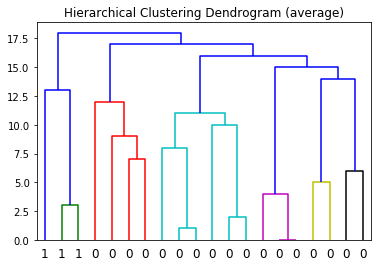
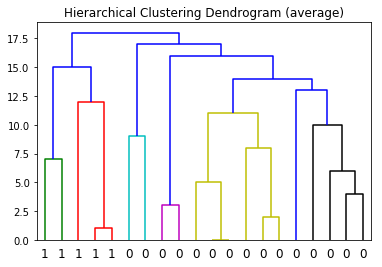
Hier. clustring v3

diff --git a/Report/clusteringMethods/hierarchicalclustering/hierarchicalclustering.tex b/Report/clusteringMethods/hierarchicalclustering/hierarchicalclustering.tex
@@ -38,7 +38,7 @@ In lab 10.5.2 we use hierarchical clustering to group a 50 x 50 matrix of random
 
 \begin{figure}[H]
 	\begin{lstlisting}[caption=Hierarchical clustering, label={lst:acpython}, language=Python]
-		np.random.seed(0)
+		np.random.seed(2)
 		X = np.random.rand(20,20)
 		clusterComplete = AgglomerativeClustering(n_clusters=2, affinity='euclidean', compute_full_tree='auto', linkage='complete').fit(X)
 		Labels:  [1 0 1 1 0 0 0 0 0 0 1 0 0 0 1 0 0 1 1 0]
@@ -67,6 +67,8 @@ Figure \ref{fig:dendrogramcluster} shows the dendrograms of the three performed 
 	\caption{Dendrograms for complete, ward and average clustering.}
 	\label{fig:dendrogramcluster}
 \end{figure}
+
+\noindent Generally, we see that hierarchical clustering correctly identifies the lower left cluster and the lower right one, however with ward and average a significant euclidean distance has to be reached for it to split correctly, whereas complete splits the observations into two separate ones early on. 
 
 
 
